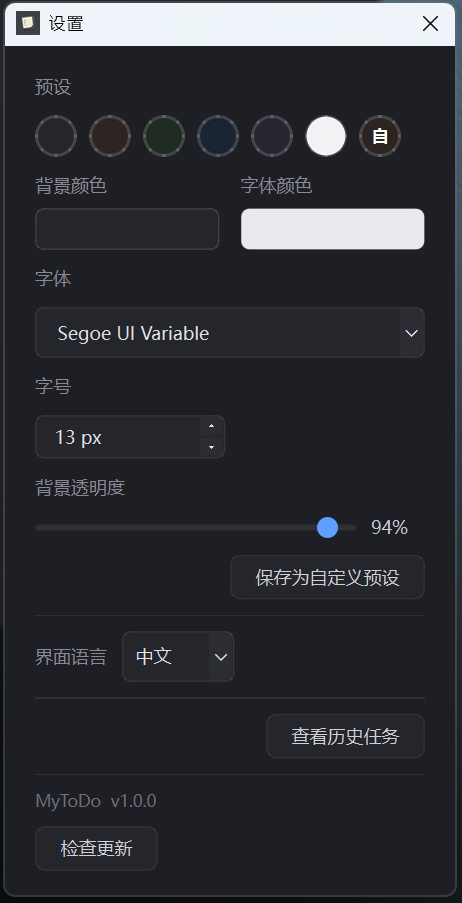
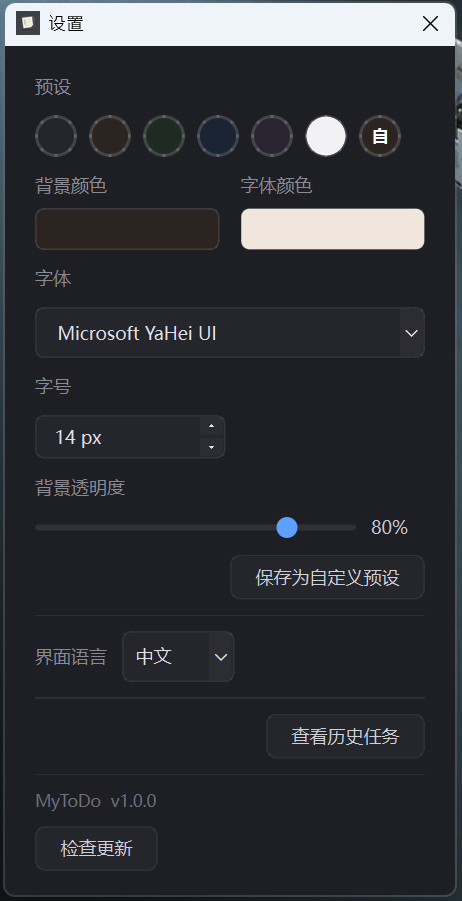
docs: README 与下载页改版——精简文案、新截图两列排版、安装步骤加快捷方式说明

diff --git a/docs/index.html b/docs/index.html
@@ -48,11 +48,11 @@
   .feature b { display: block; margin-bottom: 4px; }
   .feature span { color: var(--muted); font-size: 14px; }
 
-  /* ---- 截图 ---- */
-  .shots { display: grid; gap: 24px; }
-  figure { background: var(--panel); border-radius: 14px; padding: 18px; }
+  /* ---- 截图(两列小图) ---- */
+  .shots { display: grid; grid-template-columns: repeat(auto-fit, minmax(300px, 1fr)); gap: 18px; }
+  figure { background: var(--panel); border-radius: 14px; padding: 14px; margin: 0; }
   figure img { width: 100%; border-radius: 8px; display: block; }
-  figcaption { color: var(--muted); font-size: 14px; text-align: center; margin-top: 12px; }
+  figcaption { color: var(--muted); font-size: 13px; text-align: center; margin-top: 10px; }
 
   /* ---- 使用说明 / FAQ ---- */
   ol.steps { padding-left: 22px; }
@@ -100,16 +100,28 @@
     <h2>界面预览</h2>
     <div class="shots">
       <figure>
-        <img src="img/transparent.png" alt="半透明效果">
-        <figcaption>半透明窗口透出桌面壁纸，任务就在眼前，又不喧宾夺主</figcaption>
+        <img src="img/low-opacity.png" alt="低透明度外观">
+        <figcaption>低透明度下能看到壁纸，任务与桌面融为一体</figcaption>
       </figure>
       <figure>
-        <img src="img/main.png" alt="主界面">
-        <figcaption>主界面：JUST DO IT. —— 新建、完成、拖拽排序，一切从简</figcaption>
+        <img src="img/completed-panel.png" alt="已完成栏">
+        <figcaption>已完成栏可展开，随时恢复任务</figcaption>
+      </figure>
+      <figure>
+        <img src="img/drag-sort.png" alt="拖拽排序">
+        <figcaption>长按任务可拖动调整顺序</figcaption>
+      </figure>
+      <figure>
+        <img src="img/locked.png" alt="锁定模式">
+        <figcaption>锁定后界面很简约，移入鼠标点右上角锁头解锁</figcaption>
       </figure>
       <figure>
         <img src="img/settings.png" alt="设置界面">
-        <figcaption>设置：主题预设、颜色字体、透明度、语言与检查更新</figcaption>
+        <figcaption>设置界面，可自定义背景色、透明度、字体等外观</figcaption>
+      </figure>
+      <figure>
+        <img src="img/quit.png" alt="退出">
+        <figcaption>右键顶部栏可退出程序</figcaption>
       </figure>
     </div>
   </section>
@@ -117,10 +129,17 @@
   <section>
     <h2>安装使用</h2>
     <ol class="steps">
-      <li>点击上方「下载 Windows 版」，进入发布页下载 <code>MyToDo-v*-win64.zip</code>。</li>
-      <li>解压到任意目录（建议不要放在 C 盘系统保护目录，如 <code>Program Files</code>）。</li>
-      <li>双击 <code>MyToDo.exe</code> 即可使用，任务数据自动保存在同目录的 <code>.sticky_tasks</code> 文件夹。</li>
+      <li>点击上方「下载 Windows 版」，下载 <code>MyToDo-v*-win64.zip</code>。</li>
+      <li>解压到一个文件夹（建议不要放在 <code>Program Files</code> 等系统保护目录）。</li>
+      <li>双击 <code>MyToDo.exe</code> 即可运行，任务数据自动保存在同目录的 <code>.sticky_tasks</code> 文件夹。</li>
+      <li>想要桌面图标：右键 <code>MyToDo.exe</code> → 创建快捷方式，把快捷方式拖到桌面即可。</li>
     </ol>
+    <div class="shots" style="grid-template-columns: minmax(240px, 360px);">
+      <figure>
+        <img src="img/folder.png" alt="软件文件夹">
+        <figcaption>解压后的软件文件夹，数据都在 <code>.sticky_tasks</code> 里</figcaption>
+      </figure>
+    </div>
   </section>
 
   <section>

diff --git a/README.md b/README.md
@@ -2,24 +2,21 @@
 
 一个本地运行的 Windows 桌面任务便签软件,半透明无边框地显示在桌面上,能看到壁纸,类似精简版 Microsoft To Do。
 
-**🌐 官网 / 下载**：https://jinmyyang.github.io/MyToDo/ （免安装，解压即用）
+**🌐 官网**：https://jinmyyang.github.io/MyToDo/
+
+**⬇ [下载 Windows 版](https://github.com/JinmyYang/MyToDo/releases/latest)**（进入发布页后下载 `MyToDo-v*-win64.zip`，免安装，解压即用）
 
 ## 功能
 
-- 📌 **半透明无边框**:无边框、半透明、能看到壁纸
-- ✏ **快速编辑**:双击任务文字进入编辑,回车保存、Shift+回车换行
-- ➕ **一键新建**:点任务列表末尾的 `+` 或按 `Ctrl+N` 创建任务并自动聚焦输入
-- ✅ **点圆点完成**:点任务左侧小圆点 → 任务从桌面消失 → 进入"已完成"隐藏栏
-- ↩ **一键恢复**:展开"已完成"栏,点 ↩ 把任务恢复回主列表
-- 💾 **持久化**:数据存 JSON,关掉重开任务还在,不过夜刷新
-- 🎨 **外观设置**:自定义主题、字体、字号和透明度
-- 🔒 **锁定模式**:隐藏编辑控件,避免误操作;窗口边缘支持八方向缩放
-- 🗂 **历史任务**:已完成和已删除任务统一管理,支持批量恢复或永久删除
-- 🔎 **字体搜索**:输入字体名即可筛选,不再显示字体符号预览
-- 🎨 **自定义预设**:颜色与外观可保存为自己的预设,自定义色会记住
-- 📐 **记住窗口**:重启后恢复上次的位置和大小
-- 🔄 **检查更新**:设置窗口内一键检查新版本(对接 GitHub Releases)
-- 🚫 **无登录、无用户管理、无每日重置**:开箱即用
+一个能自定义背景颜色、透明度、字体等外观的简约风格 todo 软件：任务新建、完成、拖拽排序、锁定窗口、历史记录都在一块半透明的桌面便签上完成，数据全部保存在本地。
+
+| 低透明度下能看到壁纸 | 已完成栏可展开、恢复任务 |
+|:---:|:---:|
+| <img src="docs/img/low-opacity.png" width="280"> | <img src="docs/img/completed-panel.png" width="280"> |
+| **长按任务可拖动调整顺序** | **锁定后很简约，移入鼠标点右上角锁头解锁** |
+| <img src="docs/img/drag-sort.png" width="280"> | <img src="docs/img/locked.png" width="280"> |
+| **设置界面，可自定义外观** | **右键顶部栏可退出程序** |
+| <img src="docs/img/settings.png" width="280"> | <img src="docs/img/quit.png" width="280"> |
 
 ## 安装
 
@@ -39,22 +36,12 @@ python main.py
 
 ## 使用
 
-| 操作 | 方式 |
-|---|---|
-| 新建任务 | 点任务列表末尾的 `+`,输入文字,回车或点别处保存 |
-| 编辑任务 | 双击任务文字,或右键任务文字 → 编辑 |
-| 完成任务 | 点任务左侧的圆点 → 任务消失,进入已完成栏 |
-| 查看已完成 | 点底部"已完成 (N)"展开/收起 |
-| 恢复任务 | 在已完成栏点任务右侧的 ↩ |
-| 删除任务 | 右键任务或已完成任务 → 删除(移入历史任务) |
-| 移动便签 | 拖动标题栏空白处 |
-| 调整大小 | 拖动窗口边缘或四角 |
-| 锁定/解锁 | 点标题栏右侧锁头或按 `Ctrl+L`;锁定后移入窗口可再次看到锁头 |
-| 历史任务 | 设置 → 查看历史任务;可批量恢复或永久删除 |
-| 外观设置 | 点右下角齿轮;字体输入框可搜索,可保存自定义预设 |
-| 退出 | 右键标题栏空白处 → 退出 |
+1. [下载 Windows 版](https://github.com/JinmyYang/MyToDo/releases/latest) 的 zip 压缩包
+2. 解压到一个文件夹（建议不要放在 `Program Files` 等系统保护目录）
+3. 双击 `MyToDo.exe` 即可运行，任务数据自动保存在同目录的 `.sticky_tasks` 文件夹
+4. 想要桌面图标：右键 `MyToDo.exe` → 创建快捷方式，把快捷方式拖到桌面即可
 
-> 新建后留空(没输入文字)的任务,在失焦或完成时会被自动删除,不会留下空行。
+<img src="docs/img/folder.png" width="320">
 
 ## 测试
 
